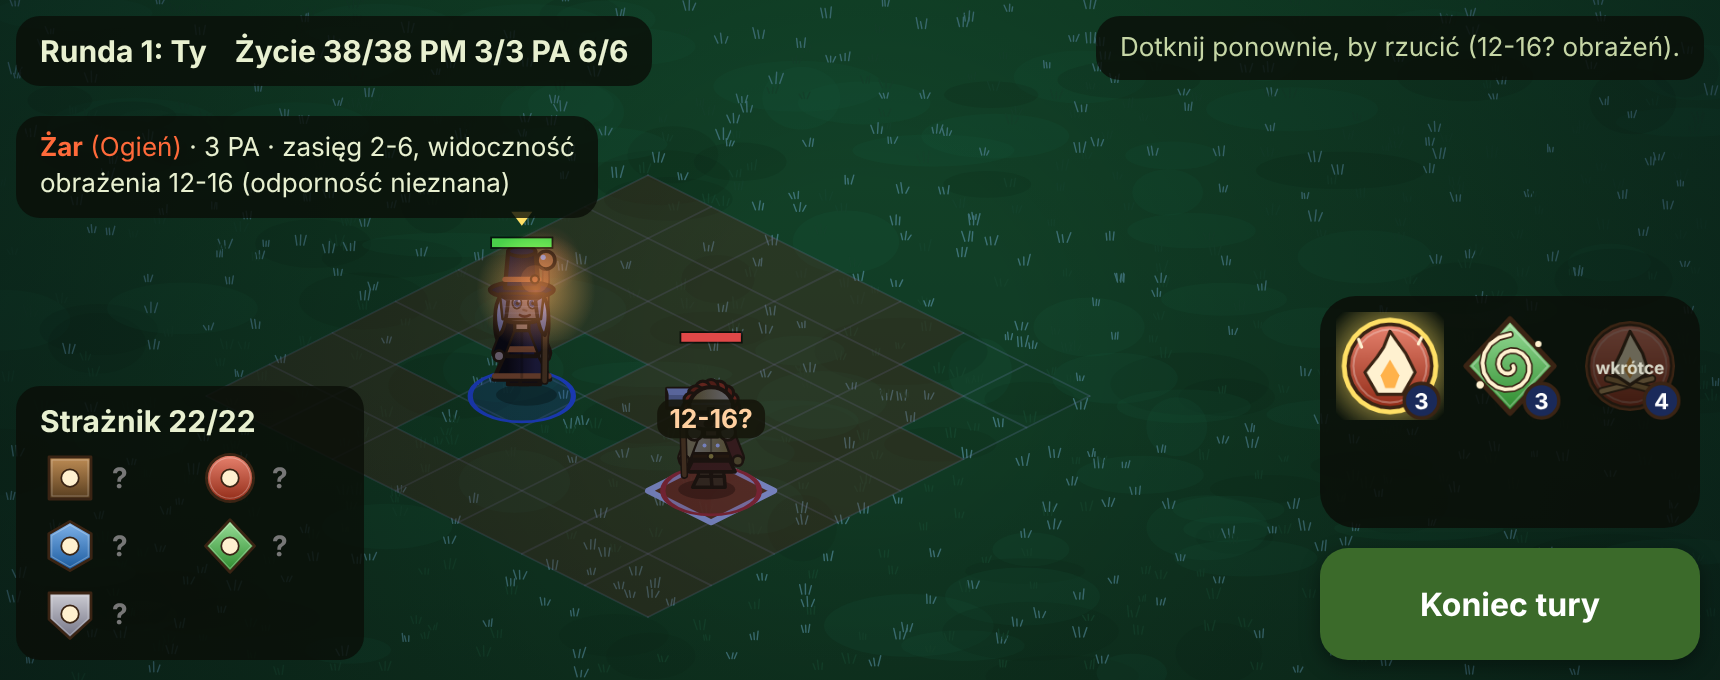
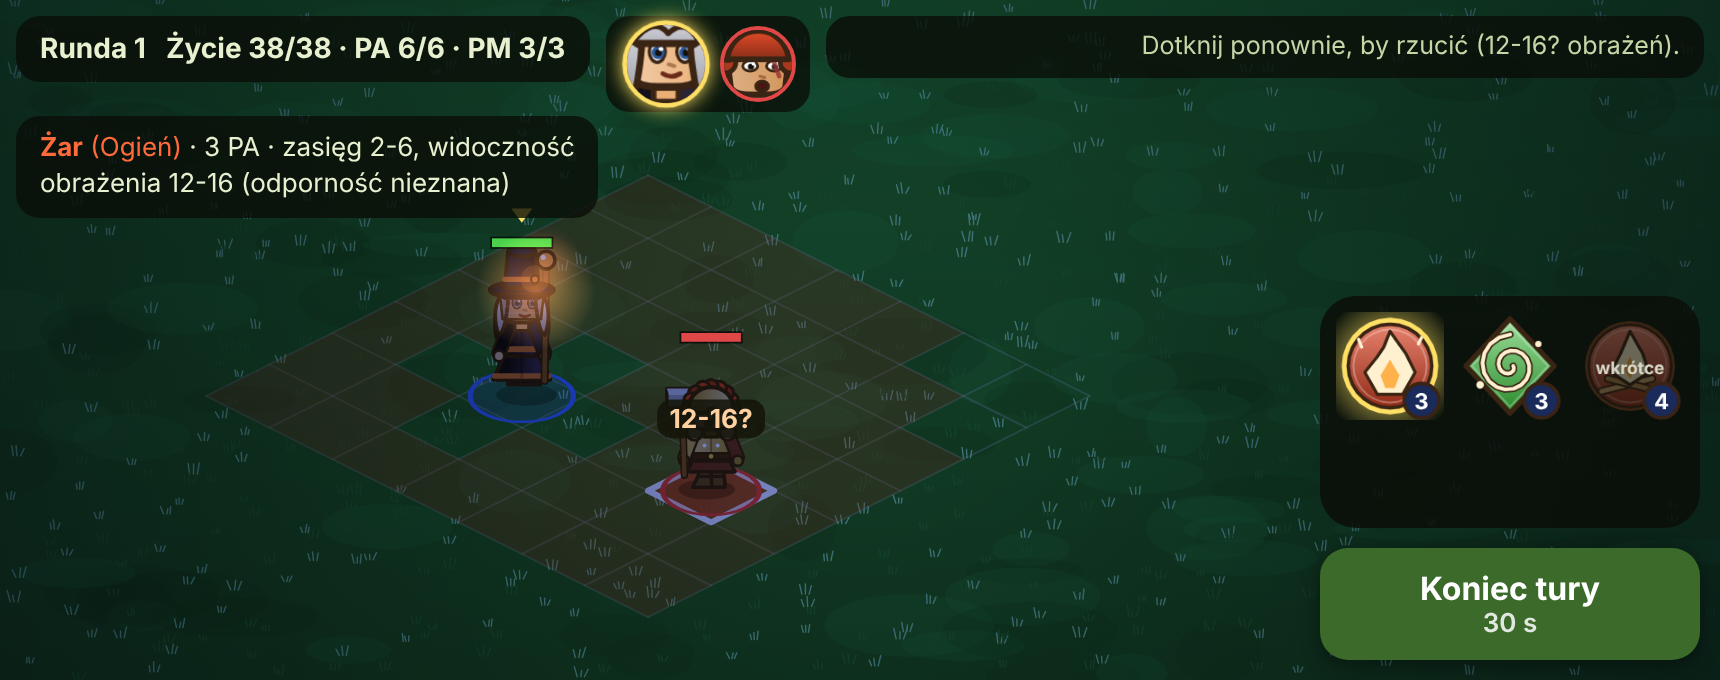
Walka: wybór pola startowego, limit czasu tury, kolejka tur, karta wroga wyłączona przy wybranym czarze
Claude-Session: https://claude.ai/code/session_01YGgK3XekFYaLDhBRBtmmRq

diff --git a/www/walka.html b/www/walka.html
@@ -6,8 +6,17 @@ html,body{margin:0;height:100%;background:#0c1210;color:#e8f0d0;font:15px system
 #app{position:fixed;inset:0}
 canvas#c{position:absolute;inset:0;width:100%;height:100%;touch-action:none;display:block}
 .pill{position:absolute;background:rgba(10,14,8,.8);border-radius:12px;padding:8px 12px}
-#hud{top:max(8px,env(safe-area-inset-top));left:max(8px,env(safe-area-inset-left));font-weight:700;display:flex;gap:14px;pointer-events:none}
-#msg{top:max(8px,env(safe-area-inset-top));right:max(8px,env(safe-area-inset-right));max-width:42vw;color:#c6d6a6;font-size:13px;text-align:right;pointer-events:none}
+#top{position:absolute;top:max(8px,env(safe-area-inset-top));left:max(8px,env(safe-area-inset-left));right:max(8px,env(safe-area-inset-right));display:flex;gap:8px;align-items:flex-start;pointer-events:none}
+#top .pill{position:static}
+#hud{font-weight:700;display:flex;gap:10px;font-size:14px;white-space:nowrap}
+#turns{display:flex;align-items:center;gap:4px;padding:5px 7px}
+#turns:empty{display:none}
+.chip{width:38px;height:38px;flex:none;border-radius:50%;border:2px solid #888;padding:0;background:#241a1c;position:relative;pointer-events:auto;touch-action:manipulation;overflow:hidden}
+.chip canvas{width:100%;height:100%;display:block}
+.chip.ally{border-color:#4a8cff}.chip.foe{border-color:#e04848}
+.chip.cur{border-color:#ffe066;box-shadow:0 0 9px #ffe066;transform:scale(1.15);margin:0 4px}
+.sep{width:2px;height:26px;background:#8a7a58;margin:0 3px;border-radius:1px}
+#msg{flex:1;min-width:120px;color:#c6d6a6;font-size:12.5px;text-align:right}
 #msg:empty{display:none}
 #foe{left:max(8px,env(safe-area-inset-left));bottom:max(10px,env(safe-area-inset-bottom));display:none;min-width:150px;pointer-events:none}
 #foe b{display:block;margin-bottom:4px}
@@ -24,7 +33,9 @@ canvas#c{position:absolute;inset:0;width:100%;height:100%;touch-action:none;disp
 .pg:disabled{opacity:.3}
 #pgi{position:absolute;top:-17px;left:50%;transform:translateX(-50%);font-size:12px;color:#a89878}
 button{font-family:inherit}
-#end{position:absolute;right:max(10px,env(safe-area-inset-right));bottom:max(10px,env(safe-area-inset-bottom));width:min(170px,26vw);height:calc(var(--s) + 12px);border:0;border-radius:14px;background:#3b6a2a;color:#fff;font:700 16px system-ui;box-shadow:0 3px 10px rgba(0,0,0,.4);touch-action:manipulation}
+#end{display:flex;flex-direction:column;align-items:center;justify-content:center;line-height:1.15;background:linear-gradient(90deg,#3b6a2a var(--p,100%),#2a3a24 var(--p,100%));position:absolute;right:max(10px,env(safe-area-inset-right));bottom:max(10px,env(safe-area-inset-bottom));width:min(170px,26vw);height:calc(var(--s) + 12px);border:0;border-radius:14px;background:#3b6a2a;color:#fff;font:700 16px system-ui;box-shadow:0 3px 10px rgba(0,0,0,.4);touch-action:manipulation}
+#end.low{background:linear-gradient(90deg,#b4401c var(--p,100%),#3a2420 var(--p,100%))}
+#end small{font:600 13px system-ui;opacity:.85;min-height:15px}
 #end:disabled{background:#2a3324;color:#6a7a5a;box-shadow:none}
   :root{--s:54px}
   #bar{left:auto;right:max(10px,env(safe-area-inset-right));transform:none;bottom:calc(max(10px,env(safe-area-inset-bottom)) + 66px);display:grid;grid-template-columns:1fr 1fr;grid-template-areas:"slots slots" "prev next";gap:6px;padding:8px}
@@ -37,12 +48,11 @@ button{font-family:inherit}
 #banner button{background:#b4501c;width:220px;height:58px;border:0;border-radius:14px;color:#fff;font:700 17px system-ui}
 </style></head><body><div id="app">
 <canvas id="c"></canvas>
-<div id="hud" class="pill"><span id="who">Walka</span><span id="pts"></span></div>
-<div id="msg" class="pill"></div>
+<div id="top"><div id="hud" class="pill"><span id="who">Walka</span><span id="pts"></span></div><div id="turns" class="pill"></div><div id="msg" class="pill"></div></div>
 <div id="foe" class="pill"></div>
 <div id="card" class="pill"></div>
 <div id="bar"><span id="pgi"></span><button class="pg" id="prev" aria-label="Poprzednia strona">‹</button><div id="slots"></div><button class="pg" id="next" aria-label="Następna strona">›</button></div>
-<button id="end">Koniec tury</button>
+<button id="end"><span id="endt">Koniec tury</span><small id="tm"></small></button>
 <div id="rotate">Obróć telefon do poziomu</div>
 <div id="banner"><span id="bt"></span><button id="again">Jeszcze raz</button></div></div>
 <script type="module">
@@ -74,16 +84,17 @@ let view={s:1,ox:0,oy:0};
 const guard=(id,x,y,seed,arch='straznik')=>spawn(arch,id,x,y,{role:'warrior',seed});
 const hero=(x,y)=>SAVED?unitFromCharacter(SAVED,{seed:3,x,y,initiative:99,name:SAVED.name},{allowDev:ALL}):({id:'h',team:'gracz',name:'Ty',classId:HERO,seed:3,x,y,initiative:99,...(ALL?{spells:[...CLASSES[HERO].spells,...DEV_SPELLS].map(s=>({id:s.id,level:1}))}:{})});
 const SCEN={
-  default:{blocked:[{x:3,y:2},{x:4,y:2},{x:2,y:4},{x:4,y:4},{x:0,y:3}],units:[hero(1,5),guard('e1',5,1,9),guard('e2',5,3,21,'popielny')]},
+  default:{zone:(x,y)=>x<=1,blocked:[{x:3,y:2},{x:4,y:2},{x:2,y:4},{x:4,y:4},{x:0,y:3}],units:[hero(1,5),guard('e1',5,1,9),guard('e2',5,3,21,'popielny')]},
   cast:{blocked:[],units:[hero(2,4),guard('e1',5,4,9)]},
   wall:{blocked:[{x:3,y:4}],units:[hero(1,4),guard('e1',5,4,9)]},
   push:{blocked:[{x:6,y:4}],units:[hero(2,4),guard('e1',4,4,9)]},
 };
+const TURN_TIME=Number(Q.get('time')??30);let phase='fight',ZONE=null,turnLeft=0,timerKey='',lastTm='';
 let state,look,facing,lastPos,preview=null,selSpell=null,anim=null,busy=false,pendingResult=null,floats=[],shake=new Map(),page=0,inspect=null,swiped=false;
-function newGame(){const sc=SCEN[scenario]||SCEN.default;state=createState({cols:7,rows:7,seed:42,blocked:sc.blocked,units:sc.units});
+function newGame(){const sc=SCEN[scenario]||SCEN.default;ZONE=sc.zone||null;phase=ZONE?'place':'fight';timerKey='';turnLeft=TURN_TIME;state=createState({cols:7,rows:7,seed:42,blocked:sc.blocked,units:sc.units});
   look=new Map(state.units.map(u=>[u.id,u.id==='h'?heroSpec(HERO,SAVED?{...SAVED.look,seed:3}:{face:1,hairStyle:'long',hair:'#c8c8d0',skin:'#f0c49a'}):genCharacter(u.seed,u.role)]));
   facing=new Map(state.units.map(u=>[u.id,u.team==='gracz'?'SE':'SW']));lastPos=new Map(state.units.map(u=>[u.id,{x:u.x,y:u.y}]));
-  preview=null;selSpell=null;anim=null;busy=false;pendingResult=null;floats=[];inspect=null;page=0;$('banner').style.display='none';hud();say('Twoja tura: dotknij kafla, by zobaczyć drogę, dotknij ponownie, by iść.')}
+  preview=null;selSpell=null;anim=null;busy=false;pendingResult=null;floats=[];inspect=null;page=0;$('banner').style.display='none';hud();say(phase==='place'?'Wybierz pole startowe na niebieskich kaflach, potem dotknij "Zaczynamy".':'Twoja tura: dotknij kafla, by zobaczyć drogę, dotknij ponownie, by iść.')}
 const dirFor=(dx,dy)=>dx>0?'SE':dx<0?'NW':dy>0?'SW':'NE';   // x rośnie w prawo-dół, y w lewo-dół
 // stopy postaci stoją tak, by środek kręgu (2 px pod stopami) wypadał dokładnie w środku kafla
 const FEET=-2;
@@ -104,7 +115,7 @@ const toCss=(wx,wy)=>{const r=cv.getBoundingClientRect();return[(view.ox+wx*view
 const say=t=>$('msg').textContent=t;
 const me=()=>unitById(state,'h');
 const spellList=()=>me().spells.map(k=>({k,def:findSpellDef(me().classId,k.id),sd:spellData(me(),k.id)}));
-const mineNow=()=>currentUnit(state).team==='gracz'&&!busy&&!state.result;
+const mineNow=()=>phase==='fight'&&currentUnit(state).team==='gracz'&&!busy&&!state.result;
 function slotInfo(it){const h=me(),d=it.sd.data,id=it.k.id,cd=h.cooldowns[id]||0,impl=implemented(d),noPa=h.pa<d.pa,lim=(h.casts[id]||0)>=d.perTurn,mine=mineNow();
   const ready=mine&&impl&&!noPa&&cd===0&&!lim;
   const st=!impl?'soon':cd>0?`cooldown:${cd}`:lim?'limit':noPa?'noPa':mine?'ready':'wait';
@@ -127,7 +138,7 @@ $('prev').onclick=()=>go(-1);$('next').onclick=()=>go(1);
 
 function chipCanvas(el){const c=document.createElement('canvas');c.width=c.height=60;drawSpellIcon(c.getContext('2d'),{id:'none',element:el},30,30,56);return c}
 function renderFoe(){
-  const box=$('foe');const tgt=preview&&preview.kind==='cast'?state.units.find(q=>q.hp>0&&q.x===preview.x&&q.y===preview.y):inspect&&state.units.find(q=>q.id===inspect&&q.hp>0);
+  const box=$('foe');const tgt=selSpell?null:inspect&&state.units.find(q=>q.id===inspect&&q.hp>0);
   if(!tgt){box.style.display='none';return}
   const kn=state.known[tgt.id]||{};box.style.display='block';box.innerHTML=`<b>${tgt.name||tgt.id} ${tgt.hp}/${tgt.maxHp}</b><div class="rs"></div>`;
   for(const e of ['earth','fire','water','air','neutral']){const r=document.createElement('div');r.className='r';r.dataset.el=e;r.append(chipCanvas(e));const v=document.createElement('span');
@@ -141,9 +152,17 @@ function renderCard(){
     if(kn!==undefined){const [a,b]=damageRangeVs(h,d,def.element,t);dm=`obrażenia ${a}-${b} (odporność ${kn>0?'+':''}${kn}%)`}else dm+=' (odporność nieznana)';}
   box.style.display='block';box.innerHTML=`<b style="color:${COL[def.element]}">${def.name}</b> <span style="color:${COL[def.element]}">(${el.name})</span> · ${d.pa} PA · zasięg ${d.min}-${d.max}${d.line?' w linii':''}${d.los?', widoczność':''}${d.cd?` · odnowienie ${d.cd}`:''}<br>${dm}${d.push?` · odpycha o ${d.push}`:''}`;
 }
+function portrait(c,u){const s=look.get(u.id),g2=c.getContext('2d'),K=2.9*c.width/58;g2.fillStyle='#241a1c';g2.fillRect(0,0,c.width,c.height);drawCharacter(g2,c.width/2,c.height*.52+35*s.sc*K,{...s,sc:s.sc*K,hat:null},DIRS.SE)}
+// kolejność tur: od jednostki, która gra teraz, po kolei; kreska oddziela tych, którzy zagrają dopiero w następnej rundzie
+function renderTurns(){
+  const box=$('turns');box.innerHTML='';const ord=state.order.filter(id=>{const u=unitById(state,id);return u&&u.hp>0});if(!ord.length)return;
+  const cur=state.order[state.turn.index],start=Math.max(0,ord.indexOf(cur)),rot=[...ord.slice(start),...ord.slice(0,start)];
+  rot.forEach((id,i)=>{if(i===rot.length-start&&start>0){const d=document.createElement('span');d.className='sep';d.title='następna runda';box.append(d)}
+    const u=unitById(state,id),b=document.createElement('button'),c=document.createElement('canvas');c.width=c.height=76;b.className='chip '+(u.team==='gracz'?'ally':'foe')+(i===0?' cur':'');b.id='turn-'+id;b.setAttribute('aria-label',u.name||id);b.title=`${i+1}. ${u.name||id}`;b.append(c);portrait(c,u);
+    b.onclick=()=>{if(selSpell)return;inspect=id;preview=null;say(`${u.name||id}: ${u.hp}/${u.maxHp} życia.`);hud()};box.append(b)})}
 function hud(){const u=currentUnit(state),h=me();
-  $('who').textContent=`Runda ${state.turn.round}: ${u.name}`;$('pts').textContent=`Życie ${h.hp}/${h.maxHp}   PM ${h.pm}/${h.maxPm}   PA ${h.pa}/${h.maxPa}`;
-  $('end').disabled=!mineNow();renderBar();renderCard();renderFoe();resizeSoon()}
+  $('who').textContent=`Runda ${state.turn.round}`;$('pts').textContent=`Życie ${h.hp}/${h.maxHp} · PA ${h.pa}/${h.maxPa} · PM ${h.pm}/${h.maxPm}`;
+  $('end').disabled=phase==='place'?false:!mineNow();$('endt').textContent=phase==='place'?'Zaczynamy':'Koniec tury';renderTurns();renderBar();renderCard();renderFoe();resizeSoon()}
 let rs=0,sig='';function resizeSoon(){if(rs)return;rs=setTimeout(()=>{rs=0;const b=$('bar').getBoundingClientRect(),n=Math.round(b.width)+'x'+Math.round(b.height);if(n!==sig){sig=n;resize()}},0)}
 function pickSpell(id){
   if(busy||state.result)return;const it=spellList().find(x=>x.k.id===id),inf=slotInfo(it);
@@ -170,15 +189,21 @@ function addFloat(c,h){const mark=h.kind==='spell'?(h.resist<0?' ▲':h.resist>=
 function afterAnim(){
   busy=false;for(const u of state.units)lastPos.set(u.id,{x:u.x,y:u.y});
   if(pendingResult){showResult();return}
-  const u=currentUnit(state);hud();
+  const u=currentUnit(state),key=`${state.turn.round}:${state.turn.index}`;if(key!==timerKey){timerKey=key;turnLeft=TURN_TIME}hud();
   if(u.team==='wrog'){busy=true;hud();setTimeout(()=>{const r=act(chooseCommand(state));if(!r)busy=false;else if(!anim)afterAnim();hud()},380)}
   else say('Twoja tura: dotknij kafla, by zobaczyć drogę, dotknij ponownie, by iść.');
 }
+function startFight(){phase='fight';selSpell=null;preview=null;inspect=null;say('Walka się zaczyna.');afterAnim()}
+function endTurn(){const u=currentUnit(state);if(u.team!=='gracz')return;selSpell=null;inspect=null;if(act({type:'endTurn',unit:u.id})&&!anim)afterAnim()}
 function showResult(){busy=true;$('bt').textContent=pendingResult==='victory'?'Zwycięstwo':'Porażka';$('banner').style.display='flex';hud()}
 $('again').onclick=newGame;
 
 function tap(sx,sy){
-  if(busy||state.result)return;const u=currentUnit(state);if(u.team!=='gracz')return;
+  if(busy||state.result)return;
+  if(phase==='place'){const c=grid.cellAt(sx,sy);if(!c)return;const foe=state.units.find(q=>q.hp>0&&q.team==='wrog'&&q.x===c.x&&q.y===c.y);
+    if(foe){inspect=foe.id;hud();return}inspect=null;
+    const h=me(),free=ZONE(c.x,c.y)&&!gridOf(state).isBlocked(c.x,c.y)&&!state.units.some(q=>q.hp>0&&q.id!==h.id&&q.x===c.x&&q.y===c.y);
+    if(free){h.x=c.x;h.y=c.y;lastPos.set(h.id,{x:c.x,y:c.y});say('Pole startowe wybrane. Dotknij "Zaczynamy" albo zmień pole.')}else say('Tu nie możesz zacząć. Wybierz niebieski kafel.');hud();return}const u=currentUnit(state);if(u.team!=='gracz')return;
   const c=grid.cellAt(sx,sy);if(!c){preview=null;hud();return}
   const foe=state.units.find(q=>q.hp>0&&q.team==='wrog'&&q.x===c.x&&q.y===c.y);
   if(selSpell){
@@ -196,7 +221,7 @@ function tap(sx,sy){
   hud();
 }
 cv.addEventListener('pointerdown',e=>{const [wx,wy]=toWorld(e.clientX,e.clientY);tap(wx,wy);e.preventDefault()});
-$('end').addEventListener('click',()=>{if(busy||state.result)return;const u=currentUnit(state);if(u.team!=='gracz')return;selSpell=null;inspect=null;if(act({type:'endTurn',unit:u.id})&&!anim)afterAnim()});
+$('end').addEventListener('click',()=>{if(busy||state.result)return;if(phase==='place'){startFight();return}endTurn()});
 
 function visual(u){
   const lp=lastPos.get(u.id);
@@ -221,7 +246,13 @@ function frame(now){
   floats=floats.filter(f=>(f.t+=dt)<1.1);for(const [k,v] of shake)if(v+dt>.35)shake.delete(k);else shake.set(k,v+dt);
   g.setTransform(1,0,0,1,0,0);g.clearRect(0,0,cv.width,cv.height);g.drawImage(bg,0,0);
   g.setTransform(view.s,0,0,view.s,view.ox,view.oy);
+  const show=phase==='fight'&&TURN_TIME>0&&mineNow();
+  if(show){turnLeft-=dt;if(turnLeft<=0){turnLeft=0;say('Czas minął.');endTurn()}}
+  const txt=show?Math.ceil(turnLeft)+' s':'';if(txt!==lastTm){lastTm=txt;$('tm').textContent=txt}
+  $('end').style.setProperty('--p',show?Math.round(turnLeft/TURN_TIME*100)+'%':'100%');$('end').classList.toggle('low',show&&turnLeft<=5);
   const cur=currentUnit(state),overlay=[],mine=mineNow();
+  if(phase==='place'){const gr=gridOf(state),zc=[];for(let y=0;y<7;y++)for(let x=0;x<7;x++)if(ZONE(x,y)&&!gr.isBlocked(x,y)&&!state.units.some(q=>q.hp>0&&q.team==='wrog'&&q.x===x&&q.y===y))zc.push({x,y});
+    fillCells(g,grid,zc,'rgba(90,150,255,.36)');for(const c of zc)drawCellOutline(g,grid,c.x,c.y,'rgba(170,210,255,.75)',1.4);drawCellOutline(g,grid,me().x,me().y,'#ffe066',3)}
   if(mine&&selSpell){const {t,inRange,hidden,blockers,ec}=rangeCells(cur,selSpell);
     fillCells(g,grid,inRange,ec+'44');fillCells(g,grid,t,ec+'88');for(const c of t)drawCellOutline(g,grid,c.x,c.y,ec,1.8);
     // pola zasłonięte (tam nie trafisz) i pola, które zasłaniają widok
@@ -250,6 +281,6 @@ function frame(now){
 function crossCell(x,y,col){const [t,r,b,l]=grid.corners(x,y),k=0.34,m=(a,b2)=>[a[0]+(b2[0]-a[0])*k,a[1]+(b2[1]-a[1])*k],n=(a,b2)=>[a[0]+(b2[0]-a[0])*(1-k),a[1]+(b2[1]-a[1])*(1-k)];g.strokeStyle=col;g.lineWidth=2;g.lineCap='round';g.beginPath();g.moveTo(...m(t,b));g.lineTo(...n(t,b));g.moveTo(...m(l,r));g.lineTo(...n(l,r));g.stroke()}
 function label(c,text,col){g.font='bold 15px system-ui';g.textAlign='center';const w=g.measureText(text).width+14;g.fillStyle='rgba(20,20,10,.88)';g.beginPath();g.roundRect(c[0]-w/2,c[1]-52,w,22,8);g.fill();g.fillStyle=col;g.fillText(text,c[0],c[1]-36)}
 newGame();resize();requestAnimationFrame(frame);
-window.__game={get state(){return state},get preview(){return preview},get busy(){return busy},get selSpell(){return selSpell},get page(){return page},grid,ringCenter:(id)=>{const u=unitById(state,id),v=visual(u);return[v.x,v.y+FEET+2]},
+window.__game={get state(){return state},get preview(){return preview},get busy(){return busy},get selSpell(){return selSpell},get page(){return page},grid,get phase(){return phase},get timeLeft(){return turnLeft},ringCenter:(id)=>{const u=unitById(state,id),v=visual(u);return[v.x,v.y+FEET+2]},
   targets:(id)=>validTargets(state,'h',id),range:(id)=>rangeCells(me(),id),cssCenter:(x,y)=>{const c=grid.center(x,y);return toCss(c[0],c[1])}};
 </script></body></html>
